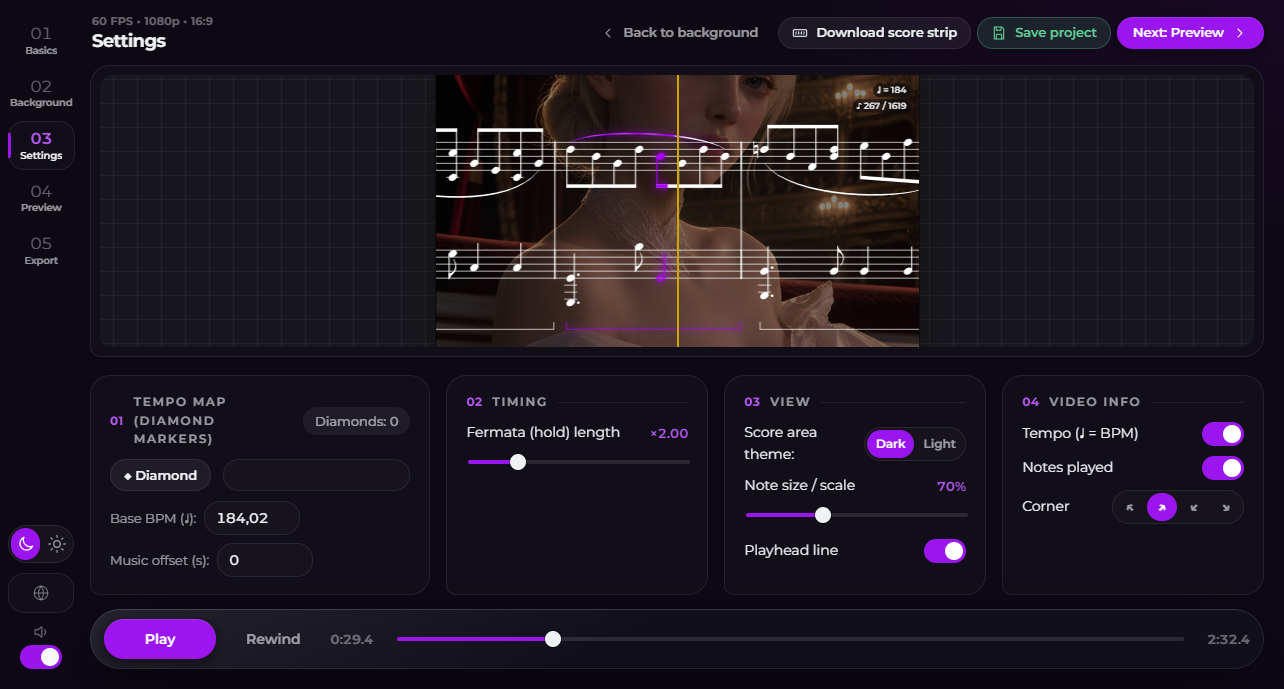
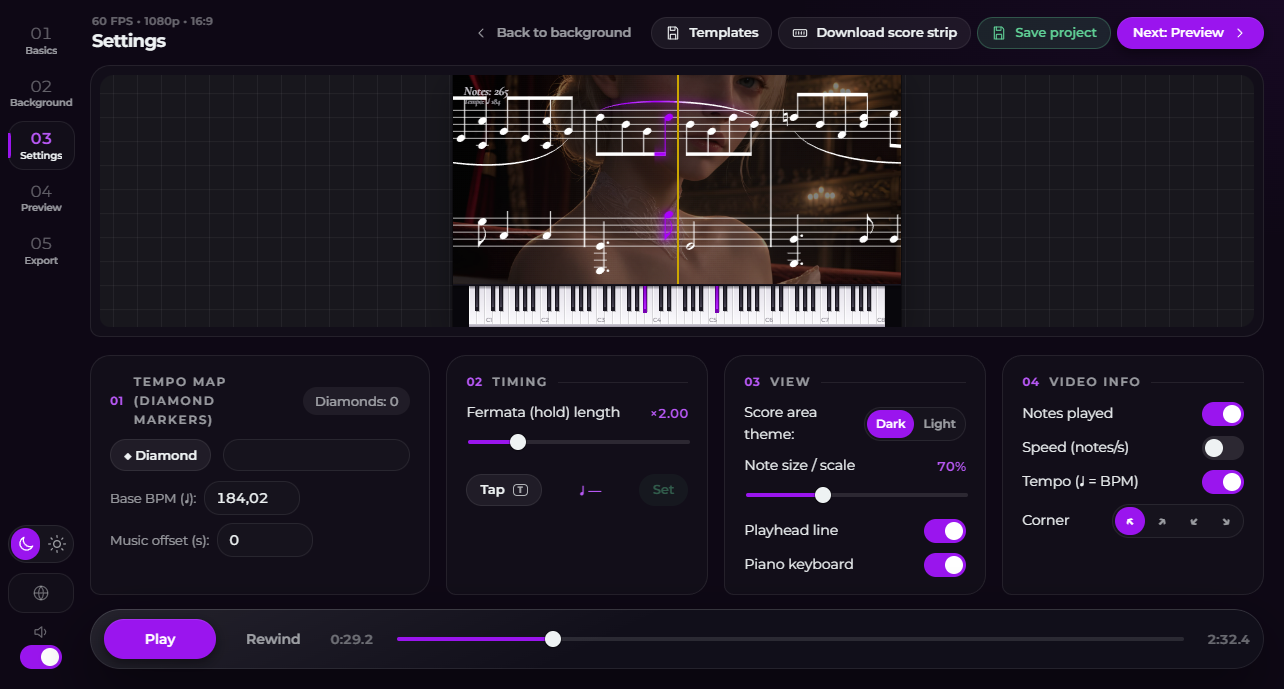
Eqo Partitura 1.1.0: release date, README screenshots, English log message

diff --git a/src/core/scoreManager.js b/src/core/scoreManager.js
@@ -135,7 +135,7 @@ export class ScoreManager {
       }
       return this.osmd;
     } catch (error) {
-      console.error("OSMD yükleme hatası:", error);
+      console.error("OSMD load error:", error);
       const err = new Error(error && error.message ? error.message : String(error));
       if (isMxl) err.code = "MXL_FAILED";
       throw err;

diff --git a/README.tr.md b/README.tr.md
@@ -97,7 +97,7 @@ Diğer betikler:
 - `npm run build`: yalnızca arayüz paketini derler.
 - `npm run web`: arayüzü normal tarayıcıda açar (bu modda proje kaydetme kapalıdır).
 
-`v1.0.0` gibi bir etiket (tag) gönderildiğinde GitHub Actions `Eqo-Partitura.exe` ve `Eqo-Partitura-x86_64.AppImage` dosyalarını derler, AppImage'ı bir kez açarak dener ve ikisini bir GitHub Release'e ekler (`.github/workflows/release.yml`).
+`v1.1.0` gibi bir etiket (tag) gönderildiğinde GitHub Actions `Eqo-Partitura.exe` ve `Eqo-Partitura-x86_64.AppImage` dosyalarını derler, AppImage'ı bir kez açarak dener ve ikisini bir GitHub Release'e ekler (`.github/workflows/release.yml`).
 
 ## Katkı
 

diff --git a/README.md b/README.md
@@ -97,7 +97,7 @@ Other scripts:
 - `npm run build` builds the UI bundle only.
 - `npm run web` opens the UI in a normal browser (project saving is off in this mode).
 
-Pushing a tag such as `v1.0.0` makes GitHub Actions build `Eqo-Partitura.exe` and `Eqo-Partitura-x86_64.AppImage`, start the AppImage once as a check, and attach both to a GitHub Release (see `.github/workflows/release.yml`).
+Pushing a tag such as `v1.1.0` makes GitHub Actions build `Eqo-Partitura.exe` and `Eqo-Partitura-x86_64.AppImage`, start the AppImage once as a check, and attach both to a GitHub Release (see `.github/workflows/release.yml`).
 
 ## Contributing
 

diff --git a/CHANGELOG.md b/CHANGELOG.md
@@ -3,7 +3,7 @@
 All notable changes to this project are documented here. The format follows
 [Keep a Changelog](https://keepachangelog.com/en/1.1.0/) and the project uses [Semantic Versioning](https://semver.org/).
 
-## [1.1.0] - 2026-11-23
+## [1.1.0] - 2026-11-24
 
 ### Added
 - **Piano keyboard (optional, page 3 · View):** a keyboard along the bottom of the video. The keys of the notes
